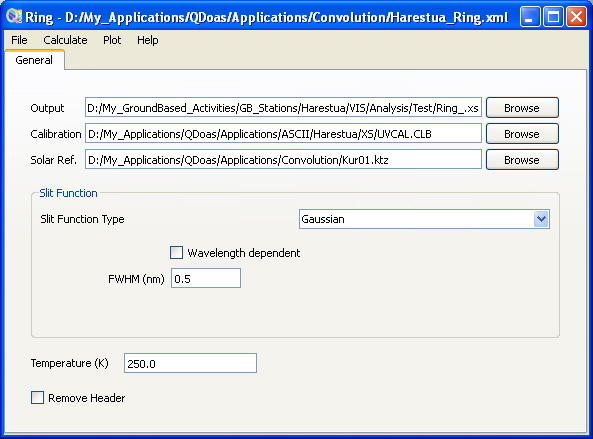
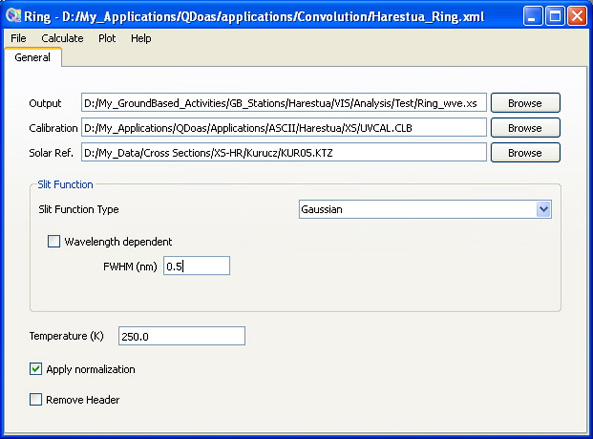
Update of the manual In xsconv.c, sigma replaced by sigma2 in order not to make confusion with the S/W user manual
git-svn-id: http://svn-ae/ae_doas/qdoas/trunk/Src@994 0551a244-8104-0410-bdc1-badfa85f4f5d

diff --git a/qdoas/Help/Tools/Tools_Ring.html b/qdoas/Help/Tools/Tools_Ring.html
@@ -12,7 +12,7 @@
 
   <tr>
     <td width="200" valign="top" bgcolor="#F3F3F3">
-<p align="center"><a href="../index.html"><img src="../QDOAS_IcoTransparent2_Small.png" alt="QDOAS_logo" width="80" height="71"></a></p>    
+<p align="center"><a href="../index.html"><img src="../QDOAS_IcoTransparent2_Small.png" alt="QDOAS_logo" width="80" height="71"></a></p>
 <p class="menu-left"><span class="menu-left-sub"><img src="../spacer_orange.jpg" width="2" height="2" alt="orange layout spacer"></span><a href="../GUI/GUI.html" style="text-decoration: none; color: #336699">&nbsp;The&nbsp;user&nbsp;interface</a></p>
     <p class="menu-left"><span class="menu-left-sub"><img src="../spacer_orange.jpg" width="2" height="2" alt="orange layout spacer"></span><a href="../Project/Project.html" style="text-decoration: none; color: #336699">&nbsp;Projects Properties</a></p>
     <p class="menu-left"><span class="menu-left-sub"><img src="../spacer_orange.jpg" width="2" height="2" alt="orange layout spacer"></span><a href="../Analysis/Analysis.html" style="text-decoration: none; color: #336699">&nbsp;Analysis&nbsp;windows&nbsp;properties</a></p>
@@ -40,6 +40,7 @@
       <li><div align="justify">a high-resolution solar spectrum;</div></li>
       <li><div align="justify">the slit function to  use for the convolution : user-defined slit functions and analytical line  shapes (Gaussian, Lorentzian, Voigt and error functions) are accepted.&nbsp;The  wavelength dependency of the line shape (Gaussian or error function)  characterized by the wavelength calibration procedure can be saved from the  plot page in order to be accounted for the convolution.</div></li>
       </ul>
+      <p>The effect of a change in temperature is small. Generally 250K is a good approximation for the atmospheric temperature at which most of the RRS is taking place.  The normalization of the Raman spectrum is optional (Wagner et al., 2010).</p>
     <p align="justify" class="orangelarge">Output<a name="Output"></a></p>
     <p align="justify">As the calculated  ring cross-section is accounted as an absorber, it is recommended to give the  name of the output file in the format imposed by QDOAS : <strong><em>cross-section files names must  imperatively start with the symbol name as prefix followed by the underscore  character !&nbsp;</em></strong></p>
 <p align="justify">The ring cross-section is calculated as the ratio of the rotational  Raman spectrum by the solar spectrum (R/S). &nbsp;The output file is an ASCII file with four  columns :</p>

diff --git a/engine/xsconv.c b/engine/xsconv.c
@@ -195,7 +195,9 @@ RC XSCONV_FctGauss(double *pValue,double fwhm,double step,double delta)
  {
   // Declarations
 
-  double sigma,a,ia;                                                            // temporary variables
+  // use sigma2=fwhm/2 because in the S/W user manual sigma=fwhm
+
+  double sigma2,a,ia;                                                           // temporary variables
   RC rc;                                                                        // return code
 
   // Initializations
@@ -211,8 +213,8 @@ RC XSCONV_FctGauss(double *pValue,double fwhm,double step,double delta)
    rc=ERROR_SetLast("XSCONV_FctGauss",ERROR_TYPE_FATAL,ERROR_ID_BAD_ARGUMENTS,"step<=0");
   else
    {
-    sigma=fwhm*0.5;
-    a=sigma/sqrt(log(2.));
+    sigma2=fwhm*0.5;
+    a=sigma2/sqrt(log(2.));
     ia=(double)step/(a*sqrt(PI));
 
     *pValue=ia*exp(-(delta*delta)/(a*a));
@@ -620,7 +622,7 @@ RC XSCONV_LoadSlitFunction(MATRIX_OBJECT *pSlitXs,MATRIX_OBJECT *pSlitXs2,SLIT *
           slitBuffer2[MAX_ITEM_TEXT_LEN+1];
   RC     rc;
   INDEX  i;
-  double x,a,a2,delta,sigma,invapi,sumPoly,slitStep,norm1,slitParam[4],fwhm;
+  double x,a,a2,delta,sigma2,invapi,sumPoly,slitStep,norm1,slitParam[4],fwhm;
   int    slitType,slitSize,nFwhm;
 
   // Initializations
@@ -692,8 +694,10 @@ RC XSCONV_LoadSlitFunction(MATRIX_OBJECT *pSlitXs,MATRIX_OBJECT *pSlitXs2,SLIT *
 
     if ((pSlitType!=NULL) && !MATRIX_Allocate(pSlitXs,slitSize,2,0,0,1,"XSCONV_LoadSlitFunction"))
      {
-      sigma=pSlit->slitParam*0.5;
-      a=sigma/sqrt(log(2.));
+     	// use sigma2=fwhm/2 because in the S/W user manual sigma=fwhm
+
+      sigma2=pSlit->slitParam*0.5;
+      a=sigma2/sqrt(log(2.));
       delta=pSlit->slitParam2*0.5;
 
       if (slitType==SLIT_TYPE_GAUSS)
@@ -715,7 +719,7 @@ RC XSCONV_LoadSlitFunction(MATRIX_OBJECT *pSlitXs,MATRIX_OBJECT *pSlitXs2,SLIT *
         pSlitXs->matrix[0][i]=(double)x;
 
         if (slitType==SLIT_TYPE_INVPOLY)
-         sumPoly+=pSlitXs->matrix[1][i]=(double)pow(sigma,pSlit->slitParam2)/(pow(x,pSlit->slitParam2)+pow(sigma,pSlit->slitParam2));
+         sumPoly+=pSlitXs->matrix[1][i]=(double)pow(sigma2,pSlit->slitParam2)/(pow(x,pSlit->slitParam2)+pow(sigma2,pSlit->slitParam2));
         else if (slitType==SLIT_TYPE_ERF)
          pSlitXs->matrix[1][i]=(double)(ERF_GetValue((x+delta)/a)-ERF_GetValue((x-delta)/a))/(4.*delta)*slitStep;
         else if (slitType==SLIT_TYPE_AGAUSS)
@@ -838,7 +842,7 @@ RC XSCONV_TypeNone(MATRIX_OBJECT *pXsnew,MATRIX_OBJECT *pXshr)
    // Declarations
 
    double h,oldF,newF,Lim,ld_inc,ldi,dld,a,delta,
-     lambdaMax,SpecOld, SpecNew,sigma,
+     lambdaMax,SpecOld, SpecNew,sigma2,
      crossFIntegral, FIntegral;
 
    RC rc;
@@ -847,8 +851,8 @@ RC XSCONV_TypeNone(MATRIX_OBJECT *pXsnew,MATRIX_OBJECT *pXshr)
 
    fwhm=fabs(fwhm);
    crossFIntegral=FIntegral=(double)0.;
-   sigma=fwhm*0.5;
-   a=sigma/sqrt(log(2.));
+   sigma2=fwhm*0.5;                                                             // use sigma2=fwhm/2 because in the S/W user manual sigma=fwhm
+   a=sigma2/sqrt(log(2.));
    delta=slitParam2*0.5;
 
    Lim=(double)2.*fwhm;
@@ -871,7 +875,7 @@ RC XSCONV_TypeNone(MATRIX_OBJECT *pXsnew,MATRIX_OBJECT *pXshr)
     //   oldF=(double)exp(-4.*log(2.)*(dld*dld)/(fwhm*fwhm));
     rc=XSCONV_FctGauss(&oldF,fwhm,ld_inc,dld);
    else if (slitType==SLIT_TYPE_INVPOLY)
-    oldF=(double)pow(sigma,(double)slitParam2)/(pow(dld,(double)slitParam2)+pow(sigma,(double)slitParam2));
+    oldF=(double)pow(sigma2,(double)slitParam2)/(pow(dld,(double)slitParam2)+pow(sigma2,(double)slitParam2));
    else if (slitType==SLIT_TYPE_ERF)
     oldF=(double)(ERF_GetValue((dld+delta)/a)-ERF_GetValue((dld-delta)/a))/(4.*delta);
 
@@ -886,7 +890,7 @@ RC XSCONV_TypeNone(MATRIX_OBJECT *pXsnew,MATRIX_OBJECT *pXshr)
       //     newF=(double)exp(-4.*log(2.)*(dld*dld)/(fwhm*fwhm));
       rc=XSCONV_FctGauss(&newF,fwhm,ld_inc,dld);
      else if (slitType==SLIT_TYPE_INVPOLY)
-      newF=(double)pow(sigma,(double)slitParam2)/(pow(dld,(double)slitParam2)+pow(sigma,(double)slitParam2));
+      newF=(double)pow(sigma2,(double)slitParam2)/(pow(dld,(double)slitParam2)+pow(sigma2,(double)slitParam2));
      else if (slitType==SLIT_TYPE_ERF)
       newF=(double)(ERF_GetValue((dld+delta)/a)-ERF_GetValue((dld-delta)/a))/(4.*delta);
 
@@ -911,7 +915,7 @@ RC XSCONV_TypeStandardFFT(FFT *pFFT,int fwhmType,double slitParam,double slitPar
  {
   // Declarations
 
-  double F,G,w,a,sigma,delta,step;
+  double F,G,w,a,sigma2,delta,step;
   INDEX i;
   int ndemi;
   RC rc;
@@ -924,8 +928,8 @@ RC XSCONV_TypeStandardFFT(FFT *pFFT,int fwhmType,double slitParam,double slitPar
     ndemi=pFFT->fftSize>>1;
     step=(pFFT->fftIn[pFFT->oldSize]-pFFT->fftIn[1])/(pFFT->oldSize-1.);
 
-    sigma=slitParam*0.5;
-    a=sigma/sqrt(log(2.));
+    sigma2=slitParam*0.5;                                                       // use sigma2=fwhm/2 because in the S/W user manual sigma=fwhm
+    a=sigma2/sqrt(log(2.));
     delta=slitParam2*0.5;
 
     w=(double)PI/step;
@@ -973,12 +977,12 @@ RC GetNewF(double *pNewF,
            double  slitParam2,
            double  step)
  {
-  double sigma,a,a2,newF,norm1,delta;
+  double sigma2,a,a2,newF,norm1,delta;
   int rc;
 
   newF=(double)0.;
-  sigma=(double)slitParam*0.5;
-  a=(double)sigma/sqrt(log(2.));
+  sigma2=(double)slitParam*0.5;                                                 // use sigma2=fwhm/2 because in the S/W user manual sigma=fwhm
+  a=(double)sigma2/sqrt(log(2.));
   delta=(double)slitParam2*0.5;
 
   rc=ERROR_ID_NO;
@@ -996,7 +1000,7 @@ RC GetNewF(double *pNewF,
    norm1=(double)1.;
 
   if (slitType==SLIT_TYPE_INVPOLY)
-   newF=(double)pow(sigma,slitParam2)/(pow(dist,slitParam2)+pow(sigma,slitParam2));
+   newF=(double)pow(sigma2,slitParam2)/(pow(dist,slitParam2)+pow(sigma2,slitParam2));
   else if ((slitType==SLIT_TYPE_ERF) && (slitParam2!=(double)0.))
    newF=(double)(ERF_GetValue((dist+delta)/a)-ERF_GetValue((dist-delta)/a))/(4.*delta);
   else if (slitType==SLIT_TYPE_AGAUSS)
@@ -1600,7 +1604,7 @@ RC XsconvRebuildSlitFunction(double *lambda,double *slit,int nslit,SLIT *pSlit,M
  {
   // Declarations
 
-  double slitParam,n,sigma,delta,a,a2;
+  double slitParam,n,sigma2,delta,a,a2;                                         // use sigma2=fwhm/2 because in the S/W user manual sigma=fwhm
   INDEX i;
   RC rc;
 
@@ -1615,11 +1619,11 @@ RC XsconvRebuildSlitFunction(double *lambda,double *slit,int nslit,SLIT *pSlit,M
     slit[i]=(double)exp(-4.*log(2.)*(lambda[i]*lambda[i])/(slitParam*slitParam));
 
   else if (pSlit->slitType==SLIT_TYPE_INVPOLY)
-   for (i=0,sigma=pSlit->slitParam*0.5,n=(double)pSlit->slitParam2;i<nslit;i++)
-    slit[i]=(double)pow(sigma,n)/(pow(lambda[i],n)+pow(sigma,n));
+   for (i=0,sigma2=pSlit->slitParam*0.5,n=(double)pSlit->slitParam2;i<nslit;i++)
+    slit[i]=(double)pow(sigma2,n)/(pow(lambda[i],n)+pow(sigma2,n));
 
   else if (pSlit->slitType==SLIT_TYPE_ERF)
-   for (i=0,sigma=pSlit->slitParam*0.5,a=(double)sigma/sqrt(log(2.)),delta=(double)pSlit->slitParam2*0.5;i<nslit;i++)
+   for (i=0,sigma2=pSlit->slitParam*0.5,a=(double)sigma2/sqrt(log(2.)),delta=(double)pSlit->slitParam2*0.5;i<nslit;i++)
     slit[i]=(double)(ERF_GetValue((lambda[i]+delta)/a)-ERF_GetValue((lambda[i]-delta)/a))/(4.*delta);
 
   else if (pSlit->slitType==SLIT_TYPE_AGAUSS)
